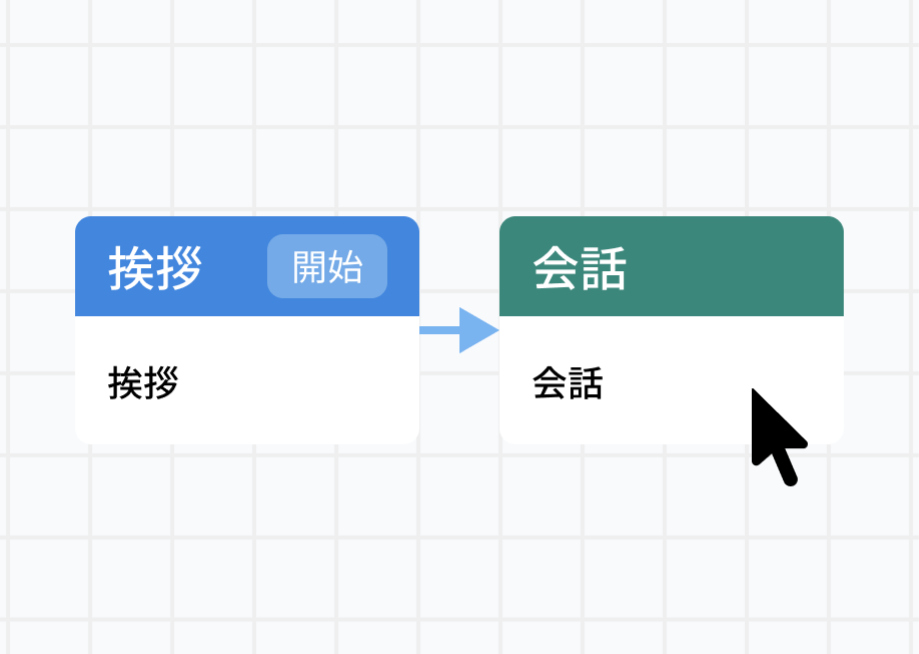
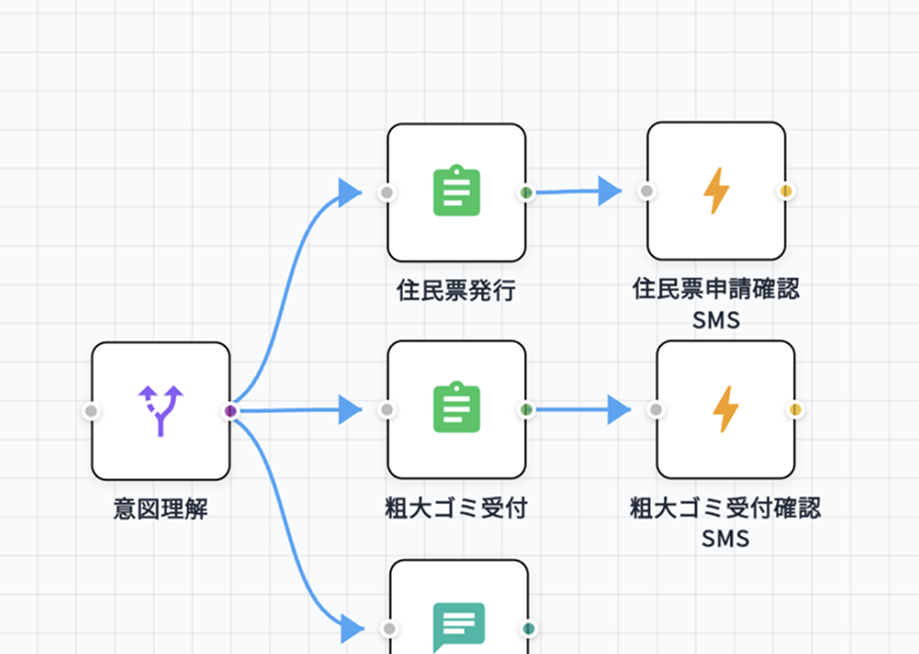
chore: update assets, comment out footer links, clean up
- Replace feature images and phone mockup with updated versions
- Comment out footer legal links (pages not yet prepared)
- Add dist/ to .gitignore
- Remove leftover file from project root

diff --git a/src/app/components/Footer.tsx b/src/app/components/Footer.tsx
@@ -19,7 +19,7 @@ export function Footer() {
             </a>
           </div>
 
-          {/* Links */}
+          {/* Links - ページ準備ができたら復活させる
           <div className="flex gap-8">
             <div className="flex flex-col gap-3">
               {["プライバシーポリシー", "利用規約", "特定商取引法に基づく表記"].map(
@@ -28,14 +28,14 @@ export function Footer() {
                     key={link}
                     href="#"
                     className="text-sc-text-secondary hover:text-sc-navy text-[13px] transition-colors"
-                    
->
+                  >
                     {link}
                   </a>
                 )
               )}
             </div>
           </div>
+          */}
         </div>
 
         {/* Divider */}
